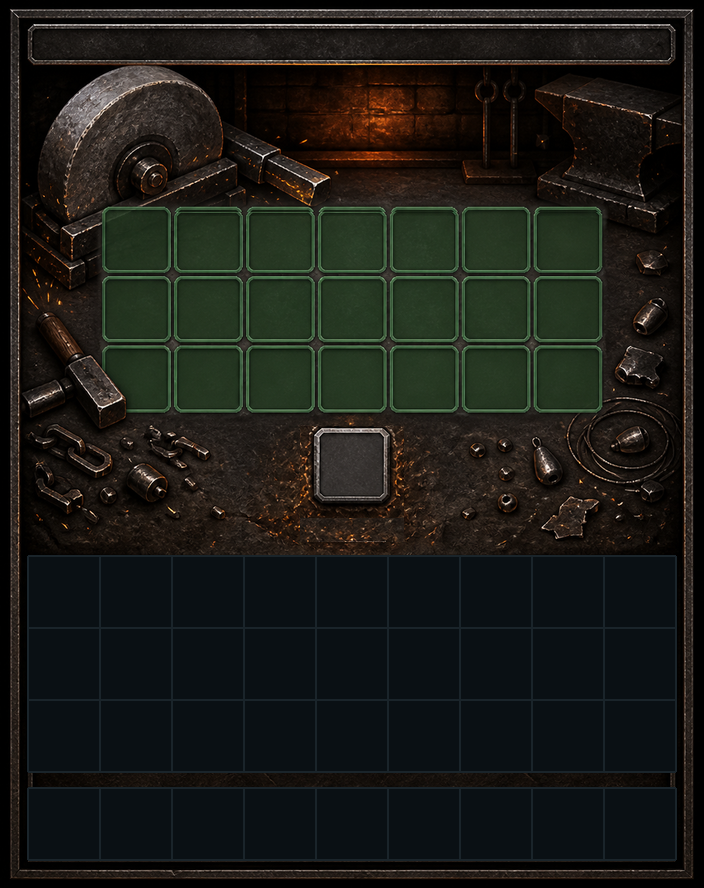
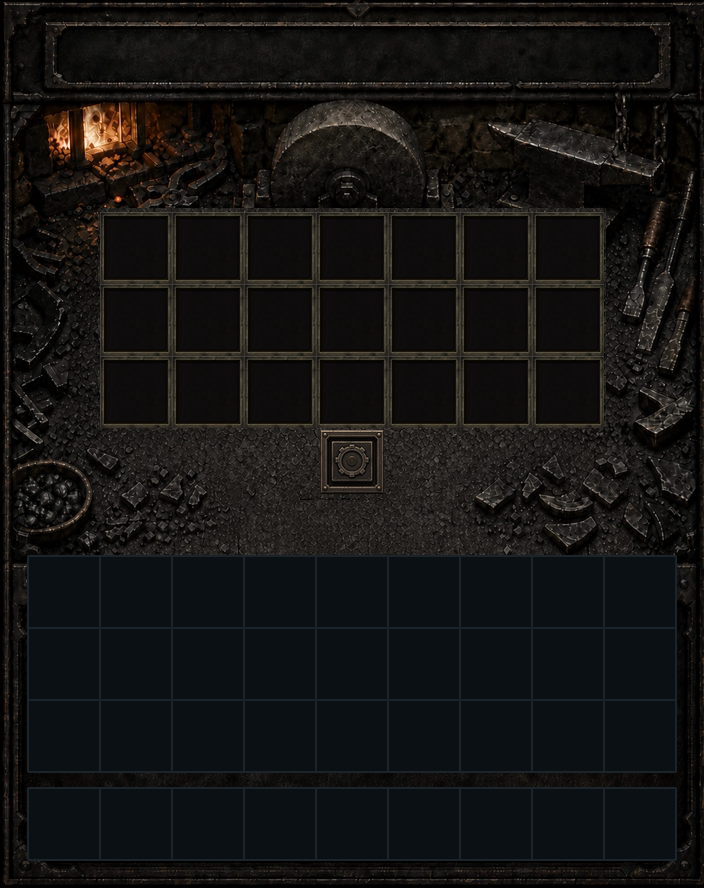
분해창 액자를 72px 격자에 다시 앉힌다
세 번째 납품(guided_usable_socket_button_fixed)은 704x888 정타에 피치도 가로·세로
72 정확, 구멍 중심까지 목표와 일치했다. 남은 어긋남은 하나뿐 — audit_slots 가 21칸
전부 네 변 -5px 로 균일하게 뱉었다(구멍 54px, 아이콘 64px). 그래서 자리는 그대로
두고 구멍만 64px 로 늘렸다.

구멍을 그냥 파낼 수는 없다. 테두리가 5px 밖에 안 돼서 파내면 테두리가 사라진다.
액자를 9-slice 로 늘려 테두리 4px 를 남겼다 — 외곽이 정확히 셀 크기(72)라 이웃과
겹치지 않는다.

★첫 시도에서 테두리를 원본 두께(8px)로 뒀더니 외곽 80px 이 되어 다음 액자가 앞
액자의 오른쪽·아래 테두리를 덮어먹어 'ㄱ자'로 잘렸다. 겹치는 자리를 밝은 쪽으로
합성해 살리는 것도 해 봤지만 구멍이 배경보다 어두워서 배경이 구멍 안으로 뚫고
들어온다. 테두리 4px = 겹침 0 만이 답이다.

셀 72 에 아이콘 64 면 여백이 각 변 4px 뿐이라, 원본 그림처럼 액자 사이를 떼어
놓는 건 이 격자에서 불가능하다(기존 crafting·forge 판도 같은 이유로 격자선 구조).

검증 21/21 일치·틈 0·최대 0px. prod 서빙 팩에 타일 12장 패치 + 재시작 완료.

diff --git a/gui-forge/prep_disassemble_bg.py b/gui-forge/prep_disassemble_bg.py
@@ -1,0 +1,141 @@
+#!/usr/bin/env python3
+"""분해창 납품 손질 — 액자를 72px 격자에 다시 앉힌다.
+
+## 왜 옮기는 정도로 안 되나
+2026-08-11 납품(대장간 놋쇠 액자)을 재보니 격자가 통째로 어긋나 있었다.
+    가로 구멍 시작 111·182·251·321·391·461·530   (목표 104·176·248·320·392·464·536)
+    세로 구멍 시작 253·316·380                    (목표 216·288·360)
+    구멍 49x46px, 피치 70/63                      (목표 64x64, 피치 72)
+세로는 시작이 37px 아래고 피치가 63이라 아래 행일수록 벌어진다. 한두 픽셀 미는 걸로는
+못 맞춘다 — 아이콘이 액자 밖 배경 위에 뜬다.
+
+## 그래서 하는 일 (재질은 발주, 좌표는 코드 — skillhub 와 같은 방식)
+액자 한 장을 떠서 9-slice 로 늘려 **구멍이 정확히 아이콘 상자(64px)가 되게** 만든 뒤,
+격자 자리를 판 질감으로 지우고 21칸 좌표에 다시 찍는다. 액자 테두리는 셀 경계를 넘어
+이웃과 겹치는데, 원본에서도 액자들이 거의 맞닿아 있어 두꺼운 격자선처럼 보인다.
+
+사용: python3 prep_disassemble_bg.py [납품파일]
+산출: src/disassemble/bg_source.png (704x888) — build_plate.py 가 이걸 굽는다.
+"""
+import os
+import sys
+
+from PIL import Image
+
+import make_page_layouts as L
+
+HERE = os.path.dirname(os.path.abspath(__file__))
+SRC = os.path.join(HERE, "src", "disassemble")
+S, GX, GY, CELL, COLS = L.SCALE, L.GRID_X, L.GRID_Y, L.CELL, L.COLS
+ICON, PAD = 16 * S, (CELL * S - 16 * S) // 2      # 64, 4
+
+DEFAULT = os.path.expanduser(
+    "~/Downloads/barkan-new-imagegen-20260811/"
+    "disassemble_forge_imagegen_guided_usable_socket_button_fixed_704x888.png")
+
+# 704x888 로 줄인 뒤의 좌표다. 액자 한 장의 바깥 테두리와 그 안 구멍.
+# 2026-08-11 세 번째 납품(guided_usable_socket_button_fixed): 704x888 정타에 피치도 72 정확,
+# 구멍 중심까지 목표와 일치했다. 남은 건 구멍이 54px(아이콘 64)로 작다는 것뿐 —
+# audit_slots 가 21칸 전부 네 변 -5px 로 균일하게 뱉었다. 그래서 자리는 그대로 두고
+# 구멍만 64px 로 늘린다.
+SPRITE = (101, 213, 171, 283)     # 외곽(넉넉히. TRIM 이 실제 크롭을 정한다)
+HOLE = (109, 221, 163, 275)       # 구멍 54x54
+CORNER = 14                       # 9-slice 모서리(리벳이 온전히 들어가는 크기)
+# 액자를 지우고 메울 바닥 질감 — 격자 아래 빈 곳에서 떠온다.
+PLATE_FILL = (150, 452, 300, 504)
+# 지울 격자 영역(액자만. 판 테두리는 건드리지 않는다)
+GRID_AREA = (98, 208, 606, 428)
+# ★테두리는 4px 여야 한다 — 외곽이 정확히 셀 크기(72)가 되어 **이웃과 안 겹친다.**
+#   6·8px 로 두면 외곽이 76·80 이라 다음 액자가 앞 액자의 오른쪽·아래 테두리를 덮어먹어
+#   'ㄱ자'로 잘린 액자가 된다(2026-08-11 실측, 유저가 바로 잡아냄).
+#   겹치는 자리를 밝은 쪽으로 합성해 살리는 것도 해 봤지만, 구멍이 배경보다 어두워서
+#   배경 잡동사니가 구멍 안으로 뚫고 들어온다 — 못 쓴다.
+#   ★셀 72 에 아이콘 64 가 들어가면 여백이 각 변 4px 뿐이다. 원본 그림처럼 액자 사이를
+#   떼어 놓는 건 이 격자에서 불가능하다(그러려면 구멍을 아이콘보다 작게 그려야 하는데,
+#   그게 바로 이 납품의 원래 문제였다 — 아이콘이 테두리를 덮는다).
+TRIM = 4
+# 갈기 버튼 — 아트에서 셀49 보다 아래·오른쪽에 그려져 있어 통째로 옮긴다.
+BUTTON = (300, 432, 404, 500)
+BUTTON_FILL = (160, 452, 290, 520)
+# 버튼 그림의 세로 중심은 바깥 프레임이 아니라 **안쪽 톱니 패널** 기준이다(468~520).
+BUTTON_CENTER_Y = 466
+
+
+def nine_slice(sp, w, h, corner=CORNER):
+    """모서리는 그대로 두고 변·중앙만 늘린다 — 테두리 두께와 리벳 크기가 유지된다."""
+    sw, sh = sp.size
+    out = Image.new("RGBA", (w, h))
+    c = min(corner, sw // 2, sh // 2)
+    mid_w, mid_h = max(1, w - 2 * c), max(1, h - 2 * c)
+    boxes = [((0, 0, c, c), (0, 0)), ((sw - c, 0, sw, c), (w - c, 0)),
+             ((0, sh - c, c, sh), (0, h - c)), ((sw - c, sh - c, sw, sh), (w - c, h - c))]
+    for box, at in boxes:
+        out.paste(sp.crop(box), at)
+    out.paste(sp.crop((c, 0, sw - c, c)).resize((mid_w, c), Image.LANCZOS), (c, 0))
+    out.paste(sp.crop((c, sh - c, sw - c, sh)).resize((mid_w, c), Image.LANCZOS), (c, h - c))
+    out.paste(sp.crop((0, c, c, sh - c)).resize((c, mid_h), Image.LANCZOS), (0, c))
+    out.paste(sp.crop((sw - c, c, sw, sh - c)).resize((c, mid_h), Image.LANCZOS), (w - c, c))
+    out.paste(sp.crop((c, c, sw - c, sh - c)).resize((mid_w, mid_h), Image.LANCZOS), (c, c))
+    return out
+
+
+def fill_area(im, area, src):
+    """판 질감을 타일로 깔아 액자를 지운다."""
+    tile = im.crop(src)
+    tw, th = tile.size
+    x0, y0, x1, y1 = area
+    for y in range(y0, y1, th):
+        for x in range(x0, x1, tw):
+            im.paste(tile.crop((0, 0, min(tw, x1 - x), min(th, y1 - y))), (x, y))
+
+
+def move_button(im):
+    """갈기 버튼을 슬롯 49 한가운데로 옮긴다. 아트에선 아래·오른쪽으로 밀려 그려져 있다."""
+    bx, by = cell_box(49)
+    btn = im.crop(BUTTON)
+    cx, cy = (BUTTON[0] + BUTTON[2]) / 2, BUTTON_CENTER_Y
+    dx, dy = round(bx + ICON / 2 - cx), round(by + ICON / 2 - cy)
+    fill_area(im, BUTTON, BUTTON_FILL)
+    im.alpha_composite(btn, (BUTTON[0] + dx, BUTTON[1] + dy))
+    print(f"  갈기 버튼 {dx:+d},{dy:+d} 이동")
+
+
+def cell_box(slot):
+    r, c = divmod(slot, COLS)
+    x0, y0 = (GX + CELL * c) * S, (GY + CELL * r) * S
+    return x0 + PAD, y0 + PAD                      # 아이콘 상자 좌상단
+
+
+def main():
+    src = sys.argv[1] if len(sys.argv) > 1 else DEFAULT
+    im = Image.open(os.path.expanduser(src)).convert("RGBA")
+    W, H = 176 * S, (114 + 6 * CELL) * S
+    if im.size != (W, H):
+        print(f"  납품 {im.size} → {W}x{H} 로 축소")
+        im = im.resize((W, H), Image.LANCZOS)
+
+    # 구멍 바깥 TRIM 만큼만 남겨 잘라낸다 — 이게 액자 테두리가 된다.
+    box = (max(SPRITE[0], HOLE[0] - TRIM), max(SPRITE[1], HOLE[1] - TRIM),
+           min(SPRITE[2], HOLE[2] + TRIM), min(SPRITE[3], HOLE[3] + TRIM))
+    sprite = im.crop(box)
+    fl, ft = HOLE[0] - box[0], HOLE[1] - box[1]
+    fr, fb = box[2] - HOLE[2], box[3] - HOLE[3]
+    frame = nine_slice(sprite, fl + ICON + fr, ft + ICON + fb)
+    print(f"  액자 {sprite.size} → {frame.size} (테두리 좌{fl} 위{ft} 우{fr} 아{fb} · 구멍 {ICON}px)")
+
+    fill_area(im, GRID_AREA, PLATE_FILL)
+    move_button(im)
+
+    _, roles, _ = L.PAGES["disassemble"]
+    slots = sorted(s for s, (role, _) in roles.items() if role == "입력")
+    for slot in slots:
+        bx, by = cell_box(slot)
+        im.alpha_composite(frame, (bx - fl, by - ft))
+    print(f"  액자 {len(slots)}칸 재배치")
+
+    im.convert("RGB").save(os.path.join(SRC, "bg_source.png"))
+    print(f"  → {os.path.join(SRC, 'bg_source.png')}")
+
+
+if __name__ == "__main__":
+    main()
